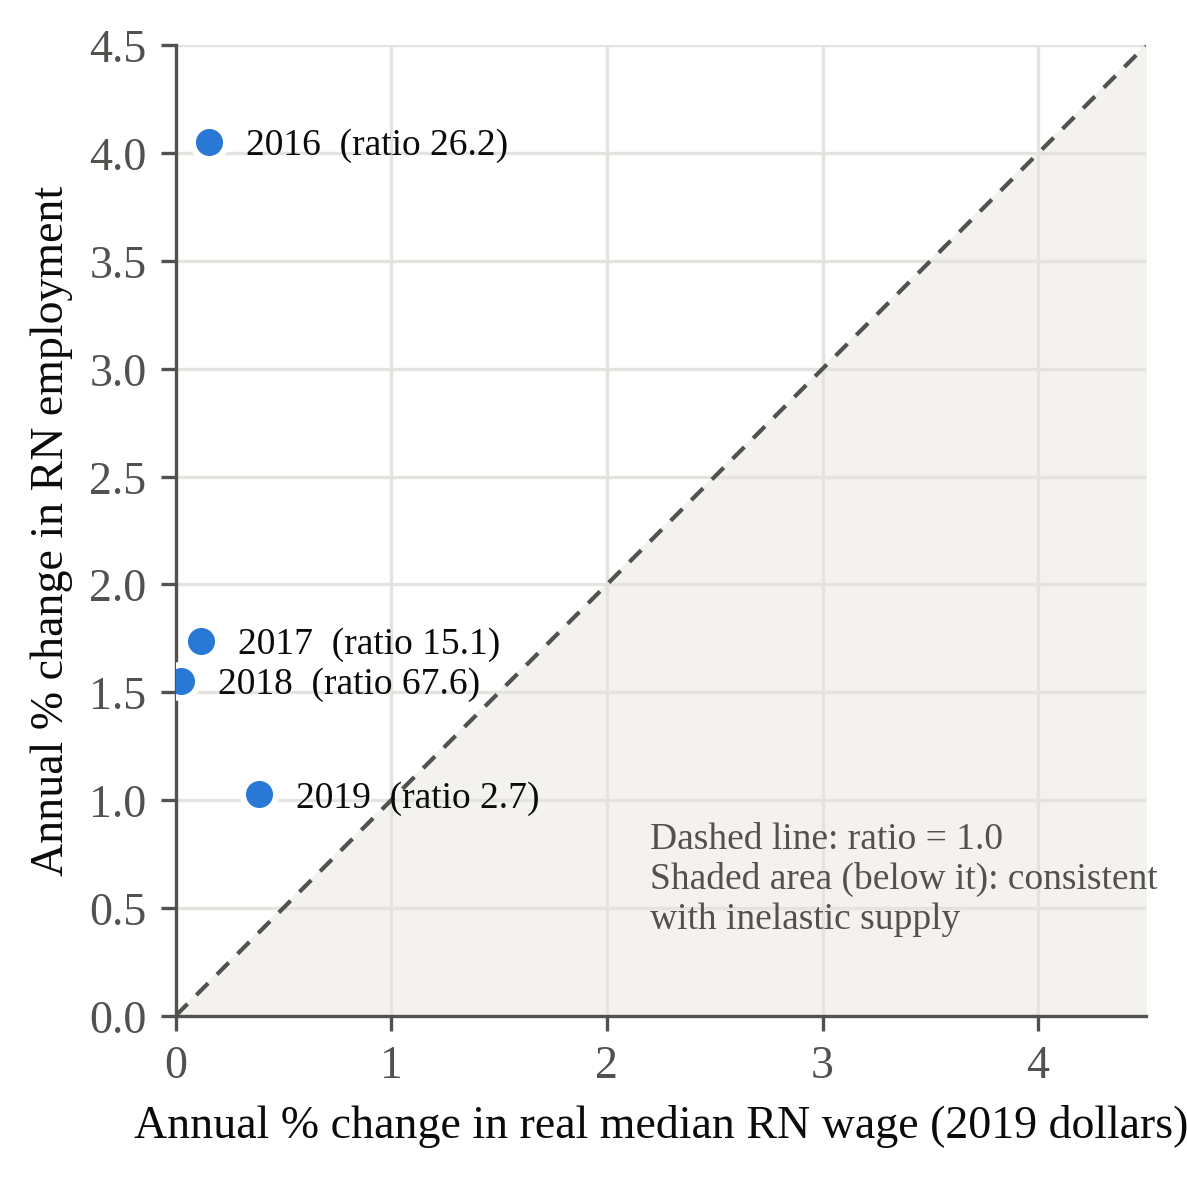
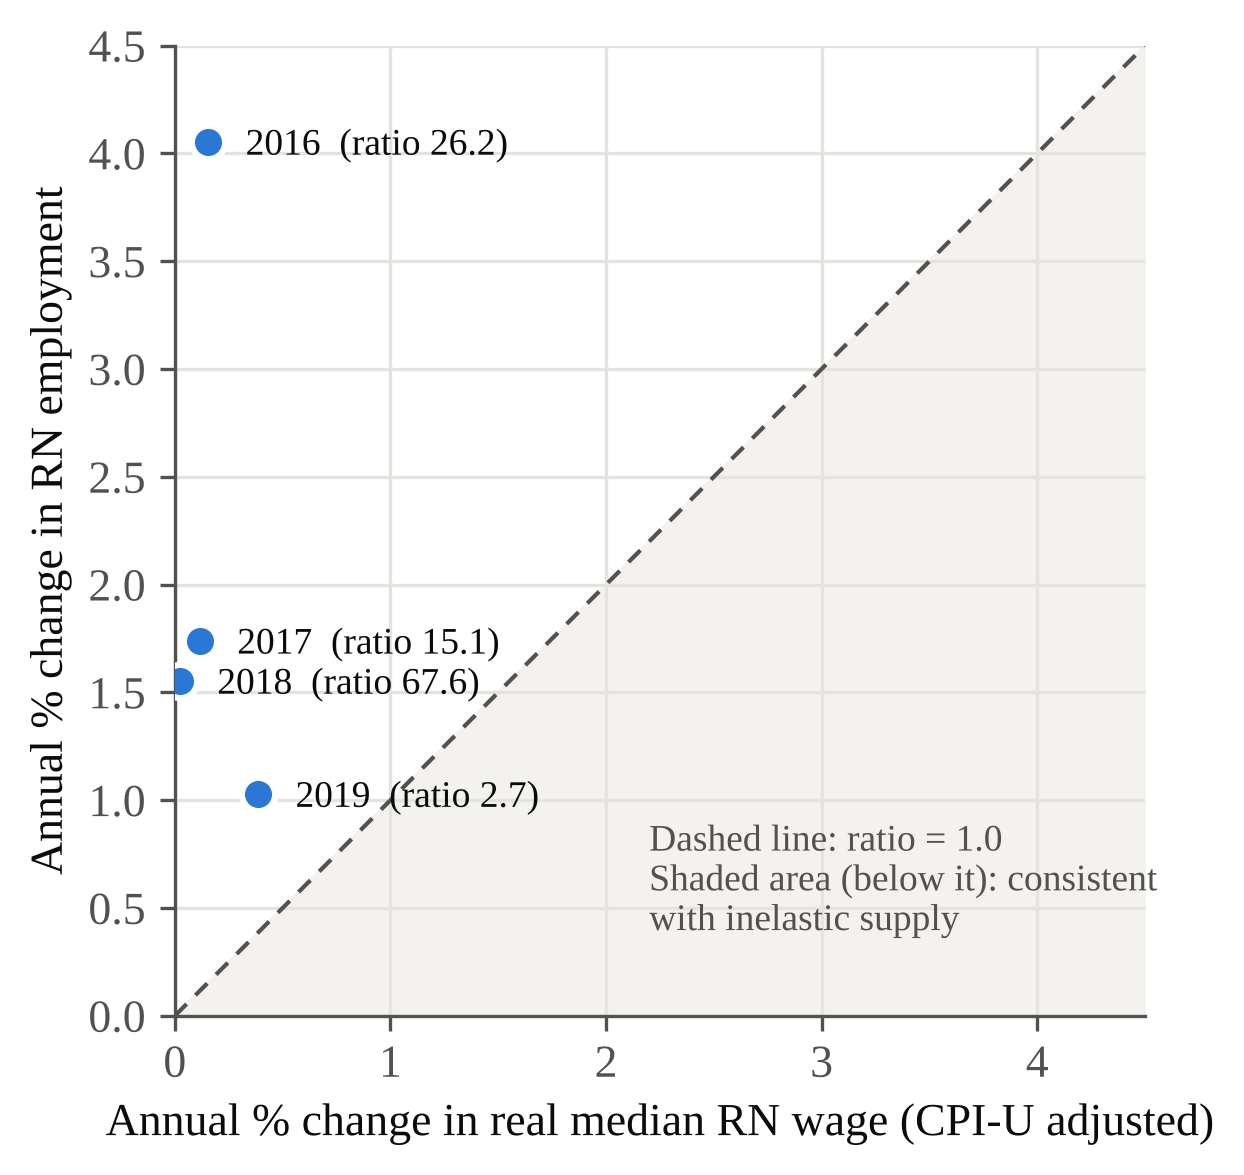
Fix Figure 1 x-axis label to match CPI-adjusted wage
Claude-Session: https://claude.ai/code/session_01Srt6wxqY7L37nz9Nmg3Kb1

diff --git a/analysis/figures/fig1.py b/analysis/figures/fig1.py
@@ -20,7 +20,7 @@ for y,x,e in pts:
     ax.plot(x,e,"o",ms=8,color=B,mec="white",mew=1.5,zorder=3)
     ax.annotate(f"{y}  (ratio {e/x:.1f})",(x,e),xytext=(9,-3),textcoords="offset points",fontsize=9,color=INK)
 ax.set_xlim(0,4.5); ax.set_ylim(0,4.5); ax.set_aspect("equal")
-ax.set_xlabel("Annual % change in real median RN wage (2019 dollars)",color=INK)
+ax.set_xlabel("Annual % change in real median RN wage (CPI-U adjusted)",color=INK)
 ax.set_ylabel("Annual % change in RN employment",color=INK)
 for sp in("top","right"): ax.spines[sp].set_visible(False)
 for sp in("left","bottom"): ax.spines[sp].set_color(INK2)
